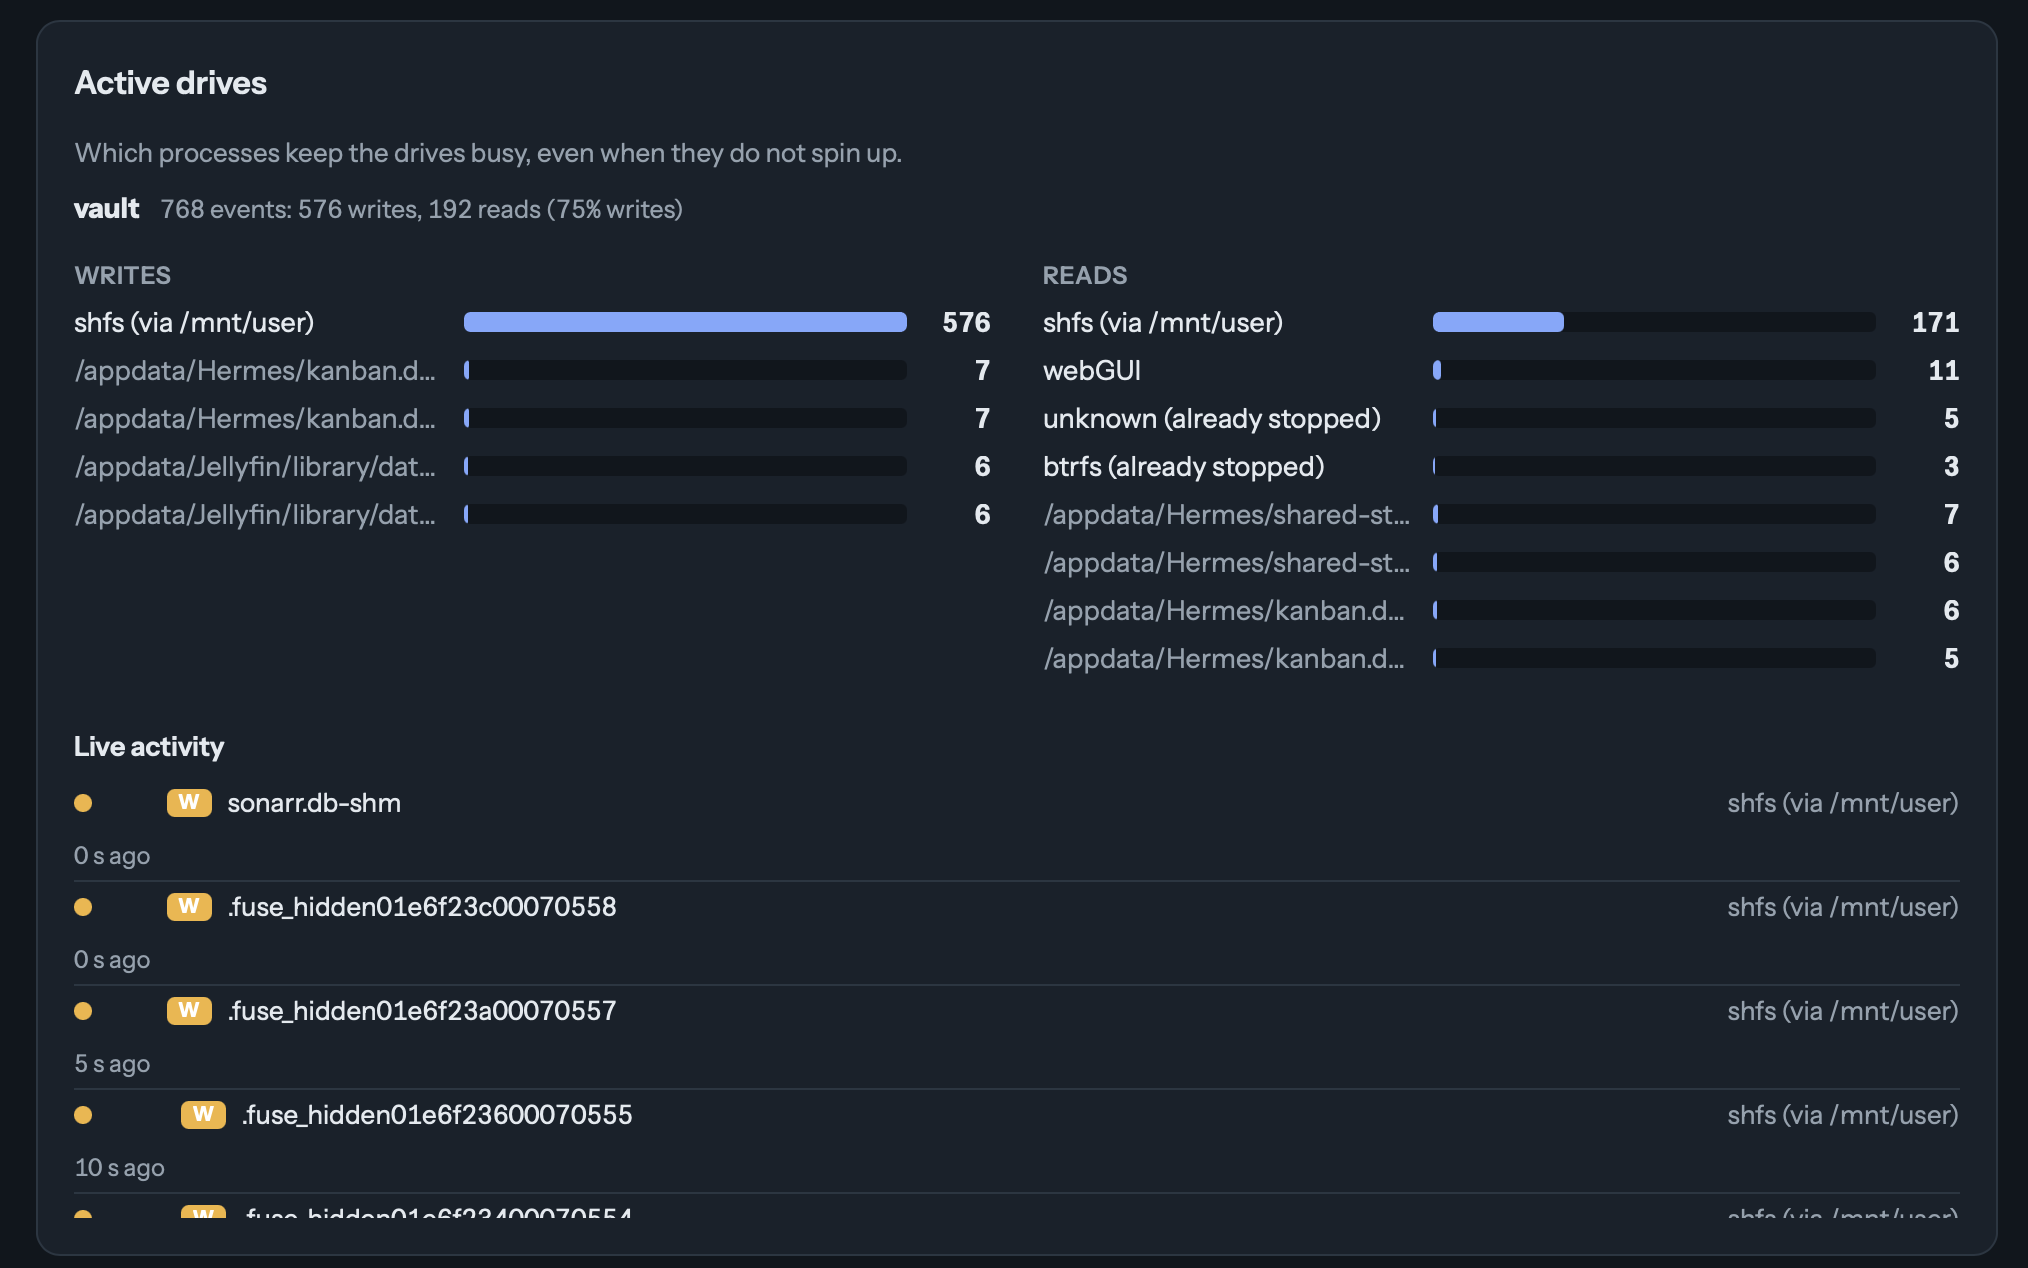
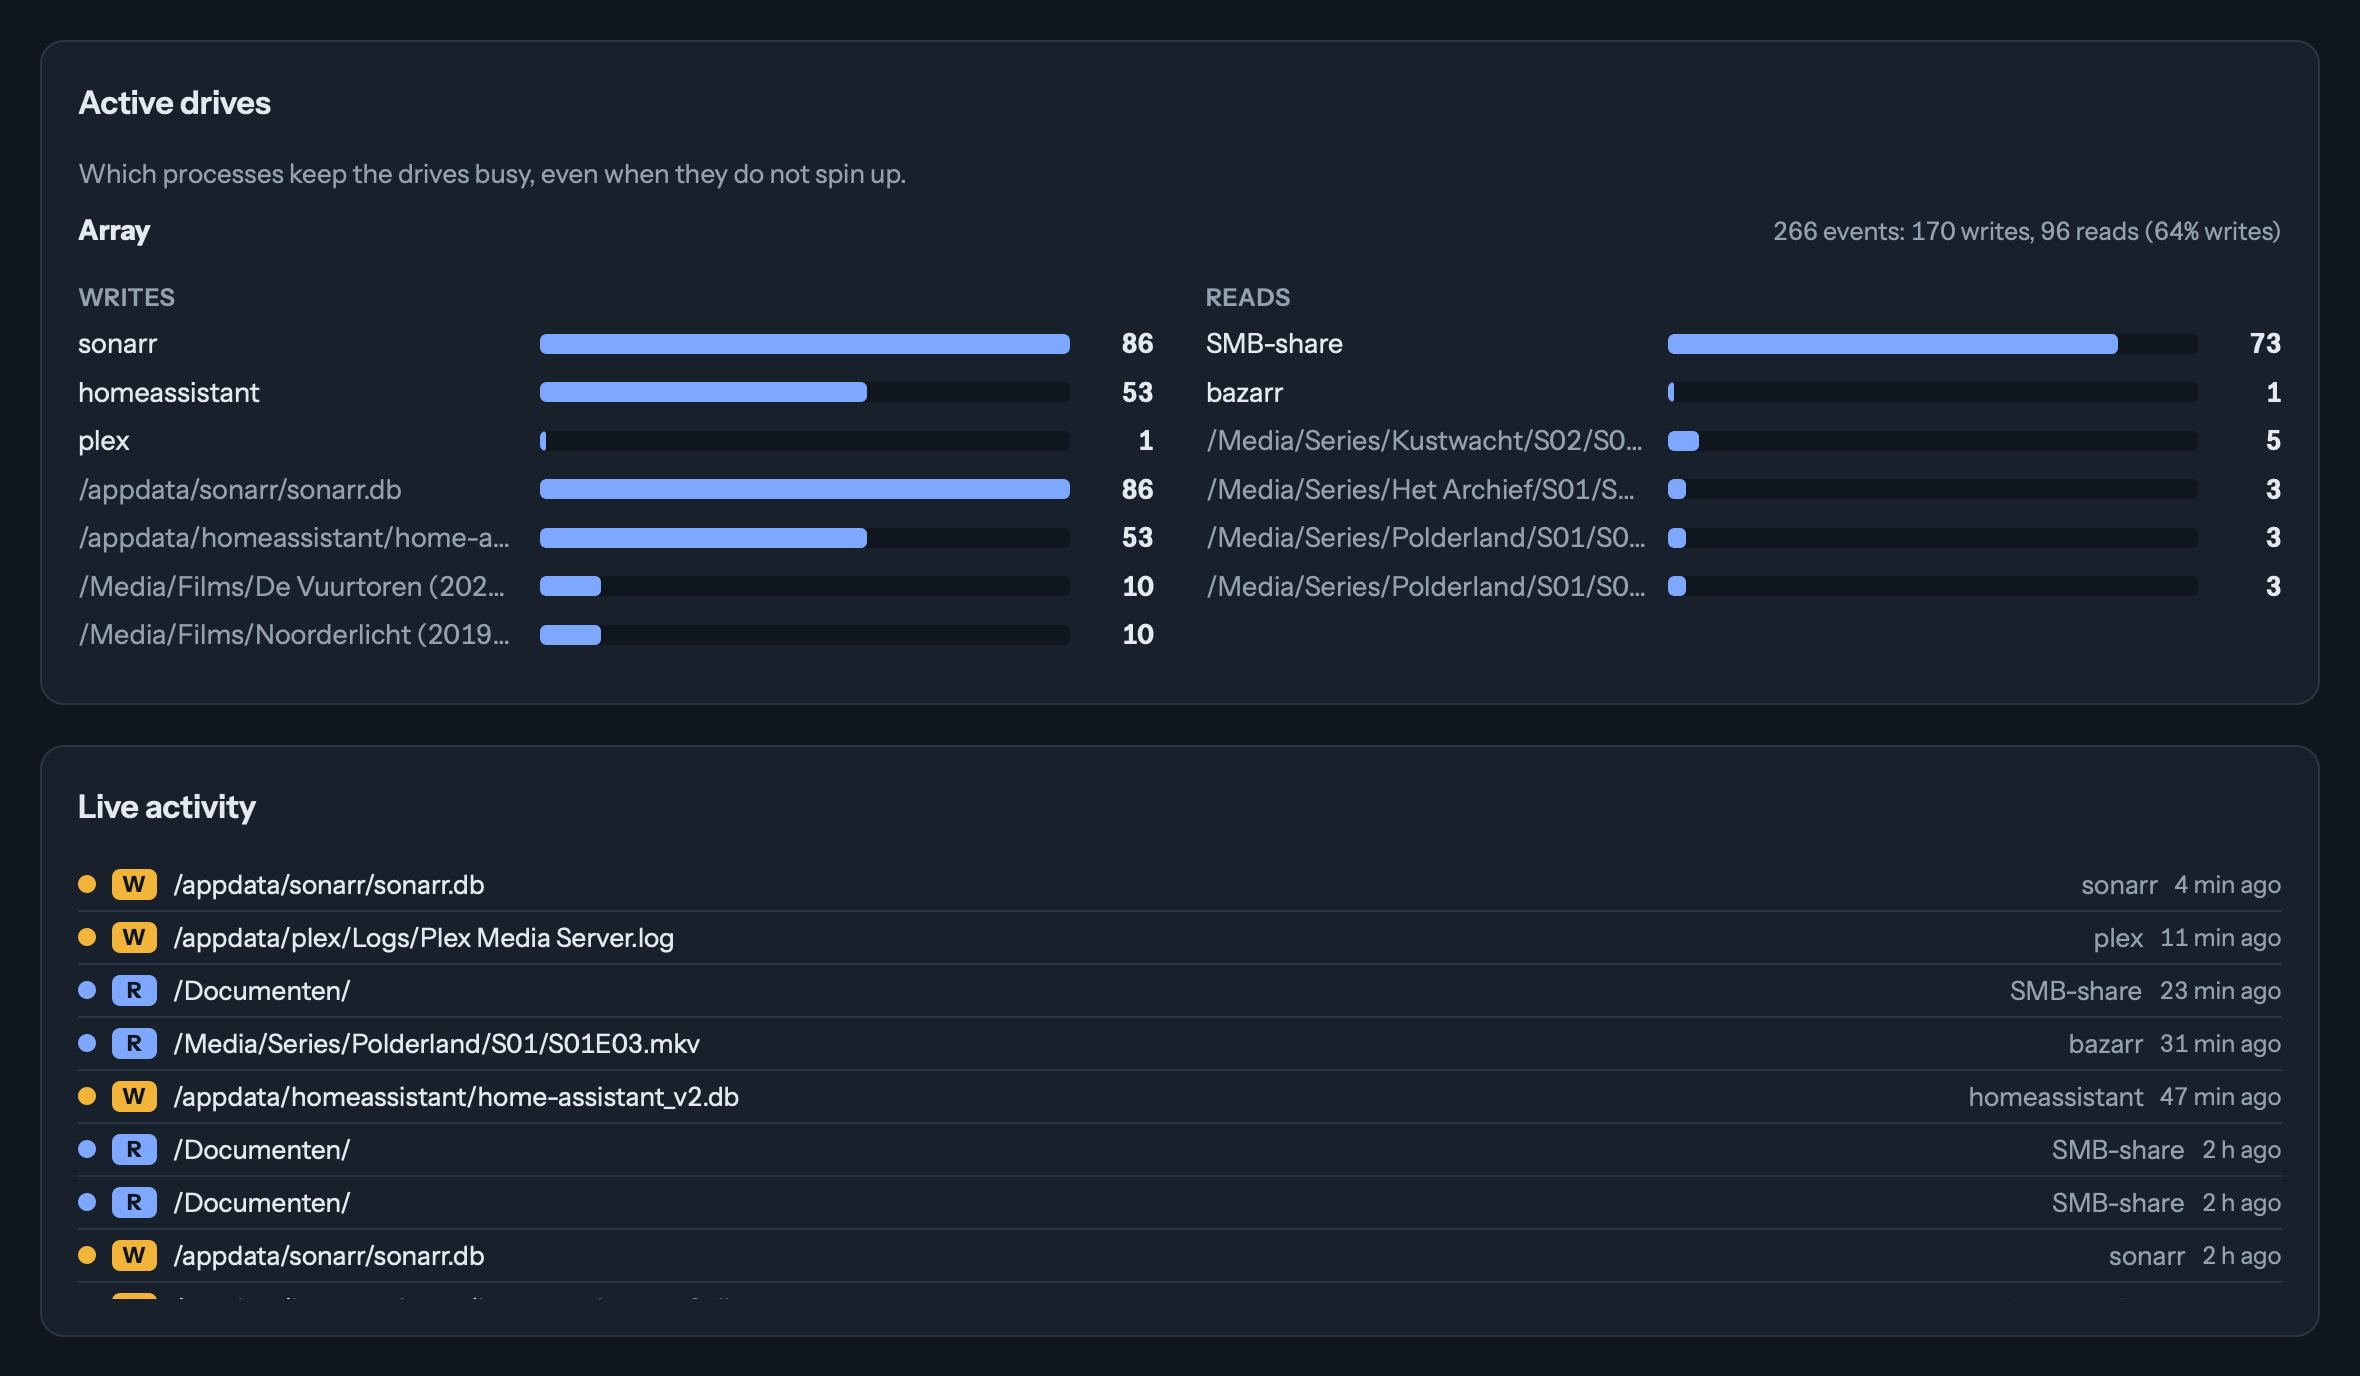
Refresh README screenshots
New 2x captures of the current dashboard (sample data, 7 days, light and dark)
and a light version of the Active drives / Live activity screenshot.

diff --git a/README.md b/README.md
@@ -4,7 +4,7 @@ See when your hard drives spin up and down, and **why**.
 
 <picture>
   <source media="(prefers-color-scheme: dark)" srcset="docs/images/screenshot-dark.png">
-  <img alt="Spin Dashboard: a timeline per disk with every spin-up, spin-ups per hour of day, what wakes the drives and a table of events with the cause of each spin-up" src="docs/images/screenshot-light.png">
+  <img alt="Spin Dashboard: a timeline per lane with every spin-up, spin-ups per hour of day, what wakes the drives, the active drives, live activity and a table of events with the cause of each spin-up" src="docs/images/screenshot-light.png">
 </picture>
 
 - A timeline per disk: every spin-up, how long it ran, how much of the day the disk was active.
@@ -23,7 +23,7 @@ See when your hard drives spin up and down, and **why**.
 
 <picture>
   <source media="(prefers-color-scheme: dark)" srcset="docs/images/active-drives-live-activity.png">
-  <img alt="Active drives: per drive the top write and read sources and files, and a live activity feed of the most recent file events" src="docs/images/active-drives-live-activity.png">
+  <img alt="Active drives: per drive the top write and read sources and files, and a live activity feed of the most recent file events" src="docs/images/active-drives-live-activity-light.png">
 </picture>
 
 ## Install

diff --git a/completed.md b/completed.md
@@ -2,6 +2,9 @@
 
 Newest first.
 
+## 2026-10-16: README screenshots
+- New README screenshots of the current dashboard (sample data, 7 days, light and dark), and a light version of the Active drives / Live activity screenshot
+
 ## 2026-10-16: hidden paths
 - Settings › Hidden paths: one wildcard pattern per line (`*` anything, `?` one character), remembered per browser (`spindash.hide`)
 - `/mnt/user/appdata/*` also hides the same files seen as `/mnt/<pool>/appdata/...`; a pattern without a leading slash matches inside the share (`*.log`, `appdata/plex/*`)
